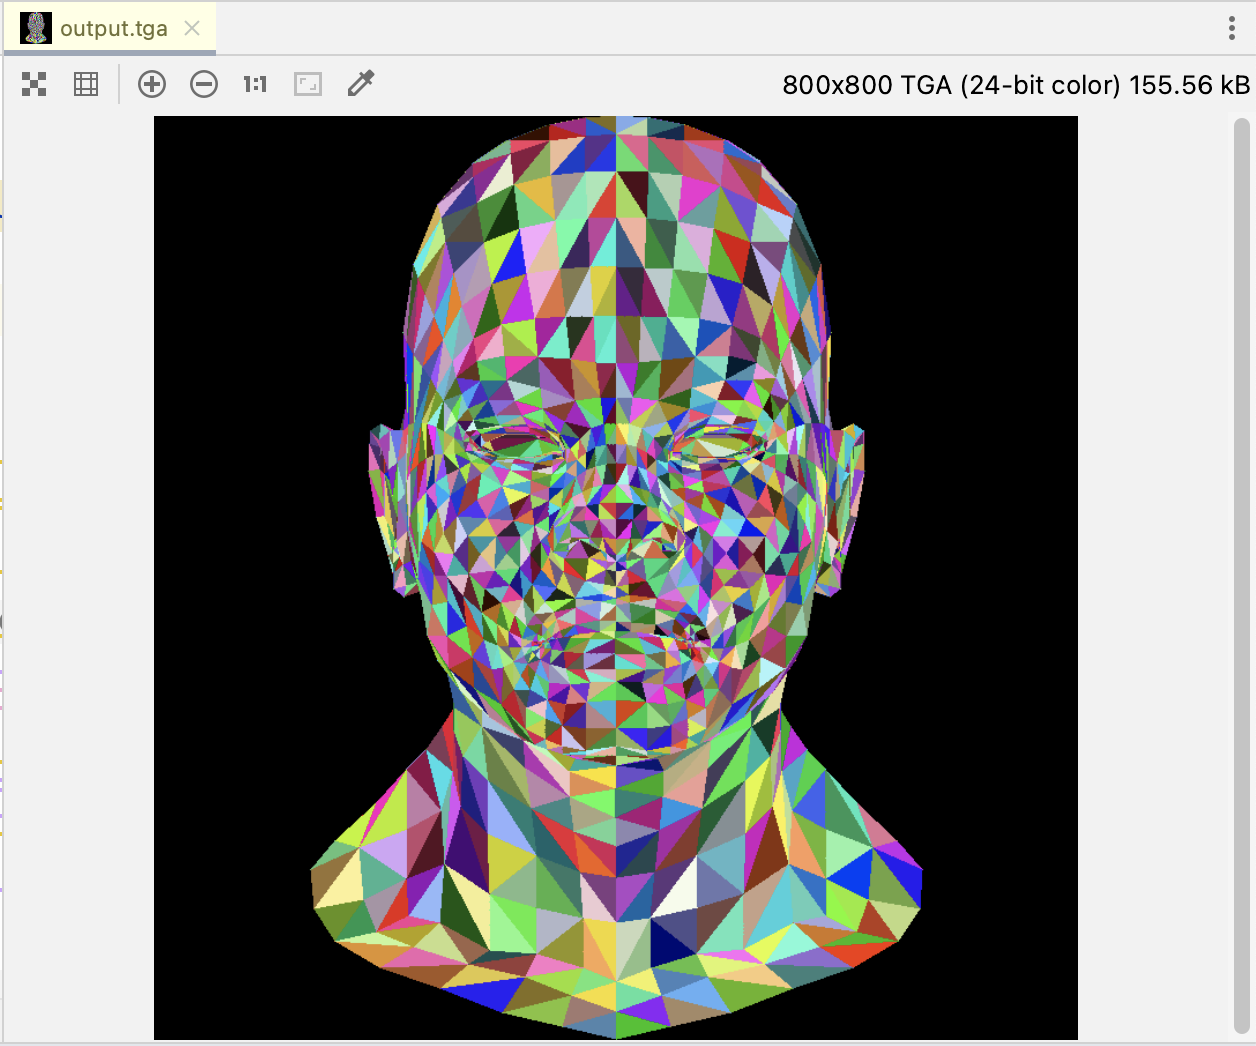
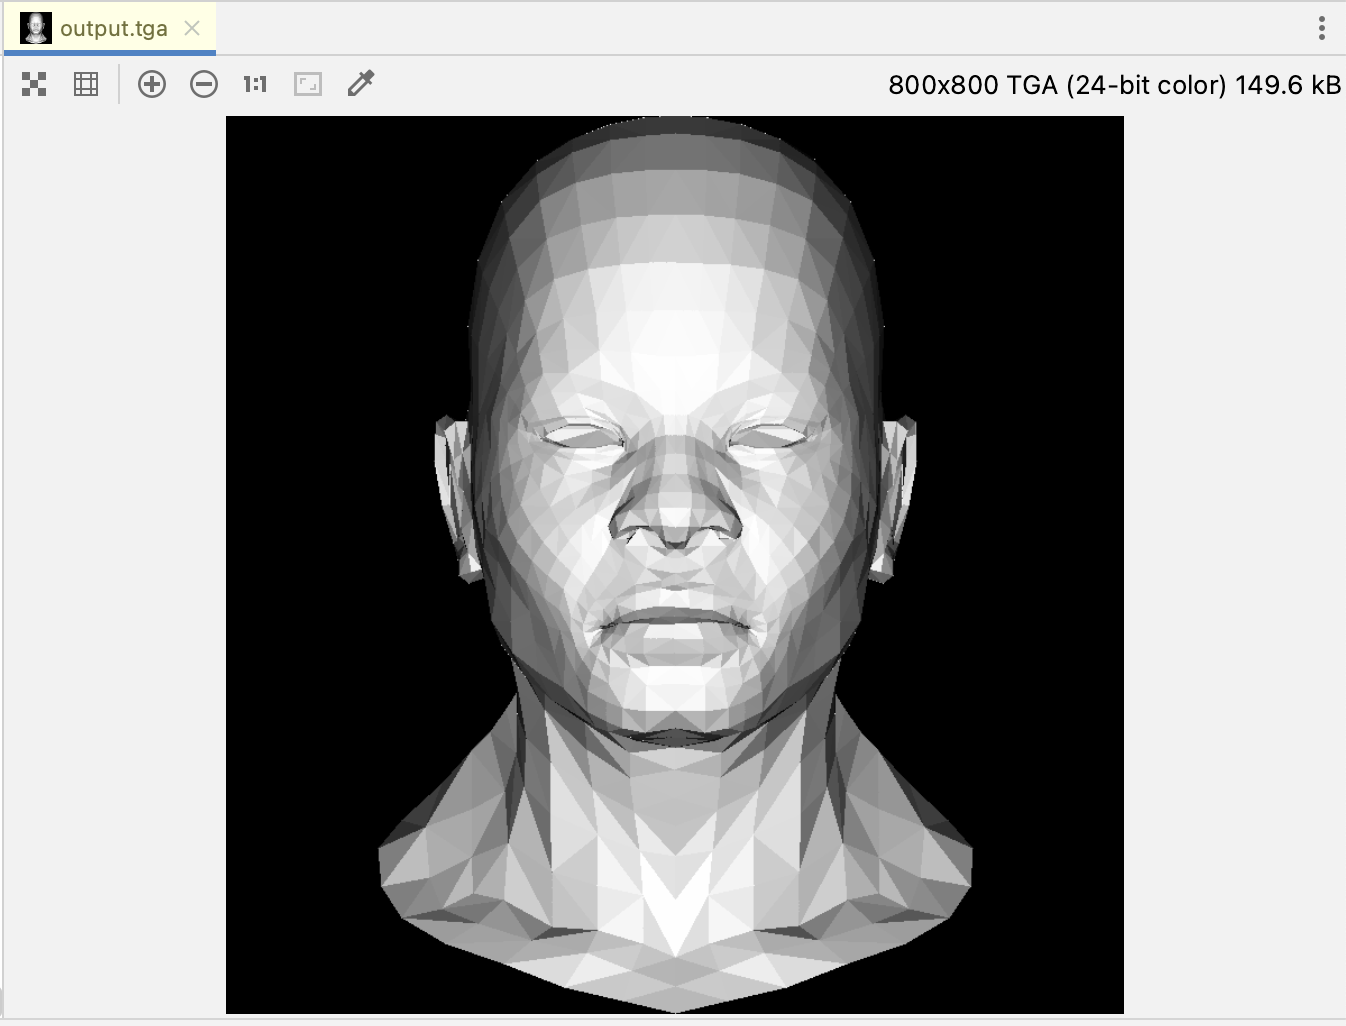
add: 深度缓冲绘制

diff --git a/src/main.cpp b/src/main.cpp
@@ -1,12 +1,16 @@
 #include <vector>
 #include <cstdlib>
 #include <limits>
-#include "lib/tgaimage.h"
-#include "lib/model.h"
-#include "lib/geometry.h"
+#include "tgaimage.h"
+#include "model.h"
+#include "geometry.h"
 
 const int width  = 800;
 const int height = 800;
+
+const TGAColor white = TGAColor(255, 255, 255, 255);
+const TGAColor red = TGAColor(255, 0,   0,   255);
+const TGAColor green = TGAColor(0, 255,   0,   255);
 
 Vec3f barycentric(Vec3f A, Vec3f B, Vec3f C, Vec3f P) {
     Vec3f s[2];
@@ -30,7 +34,7 @@ float max(float a, float b){
     return a > b ? a:b;
 }
 
-void triangle(Vec3f *pts, float *zBuffer, TGAImage &image, TGAColor color) {
+void triangle(Vec3f *pts, float *zBuffer, TGAImage &image, TGAColor color, TGAImage &zimage) {
     Vec2f bBoxMin(std::numeric_limits<float>::max(), std::numeric_limits<float>::max());
     Vec2f bBoxMax(-std::numeric_limits<float>::max(), -std::numeric_limits<float>::max());
     Vec2i clamp(image.get_width() - 1, image.get_height() - 1);
@@ -50,6 +54,8 @@ void triangle(Vec3f *pts, float *zBuffer, TGAImage &image, TGAColor color) {
             if (zBuffer[int(P.x + P.y * width)] < P.z) {
                 zBuffer[int(P.x + P.y * width)] = P.z;
                 image.set(P.x, P.y, color);
+                // 顺便绘制一下深度图
+                zimage.set(P.x, P.y, white * P.z);
             }
         }
     }
@@ -67,22 +73,35 @@ int main(int argc, char* argv[]){
         model = new Model("../obj/african_head.obj");
     }
     TGAImage image(width, height, TGAImage::RGB);
+    TGAImage zImage(width, height, TGAImage::RGBA);
 
     // init z-buffer
     auto *zBuffer = new float[width * height];
     for (int i=width * height; i--; zBuffer[i] = -std::numeric_limits<float>::max());
 
+    Vec3f light_dir(0, 0, -1);
     for (int i = 0; i < model->nfaces(); i++) {
         std::vector<int> face = model->face(i);
         Vec3f pts[3];
+        Vec3f world_coords[3];
         for (int j = 0; j < 3; j++) {
             pts[j] = world2screen(model->vert(face[j]));
+            world_coords[j] = model->vert(face[j]);
         }
-        triangle(pts, zBuffer, image, TGAColor(rand()%255, rand()%255, rand()%255, 255));
+
+        Vec3f n = (world_coords[2] - world_coords[0])^(world_coords[1] - world_coords[0]);
+        n.normalize();
+
+        int intensity = (int)(n * light_dir * 255);
+//        triangle(pts, zBuffer, image, TGAColor(rand()%255, rand()%255, rand()%255, 255), zImage);
+        triangle(pts, zBuffer, image, TGAColor(intensity, intensity, intensity, 255), zImage);
     }
 
     image.flip_vertically();
     image.write_tga_file("output.tga");
+
+    zImage.flip_vertically();
+    zImage.write_tga_file("z-output.tga");
 
     delete model;
     return 0;

diff --git a/src/main_lesson02.cpp b/src/main_lesson02.cpp
@@ -1,8 +1,8 @@
-#include "lib/tgaimage.h"
-#include "lib/geometry.h"
+#include "tgaimage.h"
+#include "geometry.h"
 #include <cmath>
 #include <iostream>
-#include "lib/model.h"
+#include "model.h"
 #include <vector>
 
 const TGAColor white = TGAColor(255, 255, 255, 255);
@@ -170,8 +170,8 @@ int main(int argc, char* argv[]){
     TGAImage image(width, height, TGAImage::RGB);
 
     // 光线入射方向
-//    Vec3f light_dir(0,0,-1);
-    Vec3f light_dir(0, 0, -1);
+    Vec3f light_dir(0,0,-1);
+//    Vec3f light_dir(0, 0, 1);
     for (int i = 0; i < model->nfaces(); i++) {
         std::vector<int> face = model -> face(i);
         Vec2i screen_coords[3];

diff --git a/src/main_lesson01.cpp b/src/main_lesson01.cpp
@@ -1,7 +1,7 @@
-#include "lib/tgaimage.h"
+#include "tgaimage.h"
 #include <cmath>
 #include <iostream>
-#include "lib/model.h"
+#include "model.h"
 #include <vector>
 
 const TGAColor white = TGAColor(255, 255, 255, 255);

diff --git a/docs/lesson03-消除隐藏面(ZBuffer算法).md b/docs/lesson03-消除隐藏面(ZBuffer算法).md
@@ -149,3 +149,6 @@ void triangle(Vec3f *pts, float *zbuffer, TGAImage &image, TGAColor color) {
 ```
 我们对上节课的源码进行了很少的改动以丢弃隐藏部分，这真是太棒了！这是渲染结果：
 ![](./image/27.png)
+> 译者注：同时我们也可以看看对应的深度图的样子
+![](./image/28.png)
+

diff --git a/docs/lesson02-三角形的光栅化与背面剔除.md b/docs/lesson02-三角形的光栅化与背面剔除.md
@@ -453,7 +453,7 @@ int main(int argc, char* argv[]){
     }
     TGAImage image(width, height, TGAImage::RGB);
 
-    Vec3f light_dir(0,0,-1);
+    Vec3f light_dir(0, 0, -1);
     for (int i = 0; i < model->nfaces(); i++) {
         std::vector<int> face = model -> face(i);
         Vec2i screen_coords[3];
